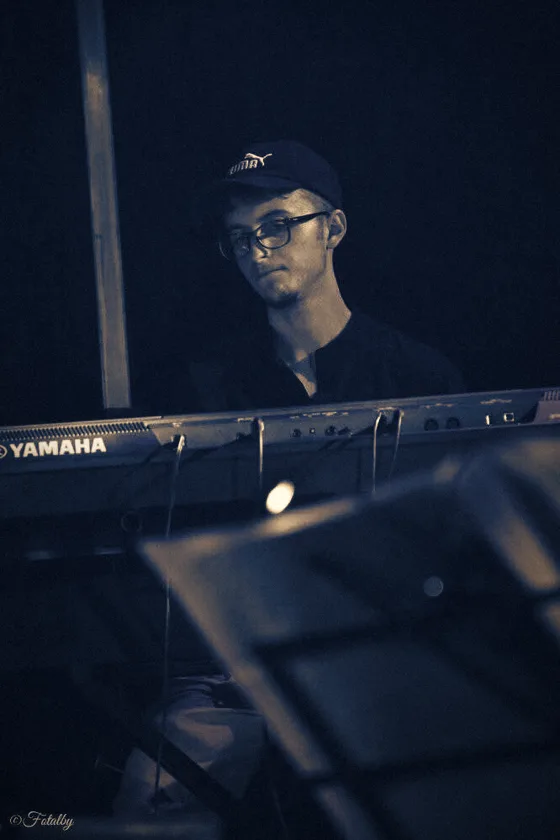
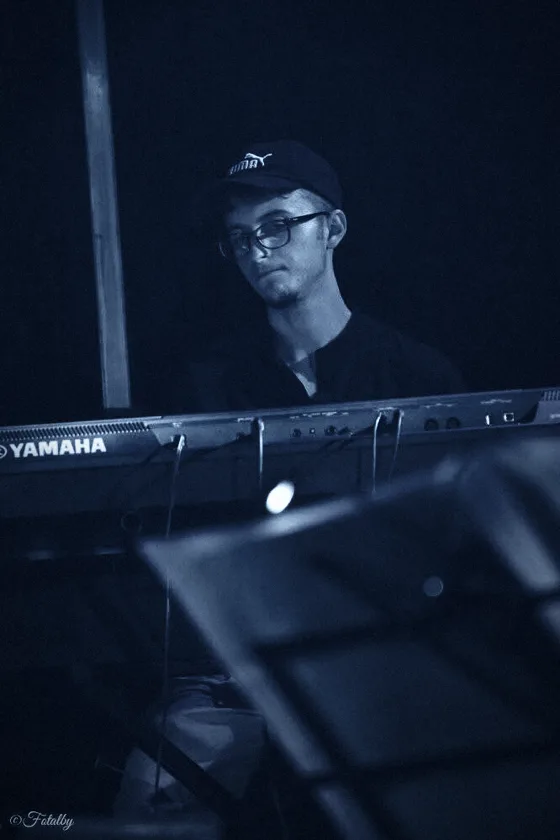
Colore di richiamo azzurro ghiaccio, foto principale con filtro coordinato
Claude-Session: https://claude.ai/code/session_01TQULKgEiuJuH3AcfBSXb7F

diff --git a/assets/style.css b/assets/style.css
@@ -8,7 +8,7 @@
   --bg:#0A1930;--bg-2:#0C1F3A;--surface:#112847;--surface-2:#163257;
   --line:rgba(244,241,234,.10);--line-2:rgba(244,241,234,.18);
   --text:#F4F1EA;--text-2:#CDD3DC;--text-3:#9EA9BA;
-  --gold:#D4B07A;--gold-2:#E4C99C;--gold-line:rgba(212,176,122,.38);--gold-wash:rgba(212,176,122,.08);
+  --gold:#8CC8FF;--gold-2:#B8DCFF;--gold-line:rgba(140,200,255,.38);--gold-wash:rgba(140,200,255,.08);
   --shadow:0 30px 60px -30px rgba(2,8,20,.85);
   --r-sm:10px;--r:16px;--ease:cubic-bezier(.16,1,.3,1);
   --z-nav:50;--z-overlay:90;--z-modal:100;
@@ -68,7 +68,7 @@ section{position:relative;scroll-margin-top:64px}
 .hero{position:relative;min-height:100dvh;max-height:1000px;display:grid;align-items:end;overflow:hidden;isolation:isolate}
 .hero-bg{position:absolute;top:-6%;bottom:-6%;right:0;left:40%;z-index:-2;background:url(img/hero.webp) center 22%/cover no-repeat;will-change:transform;animation:heroIn 2.2s var(--ease) both;-webkit-mask-image:linear-gradient(90deg,transparent 0%,#000 32%);mask-image:linear-gradient(90deg,transparent 0%,#000 32%)}
 @keyframes heroIn{from{transform:scale(1.12);filter:brightness(.4)}to{transform:scale(1.04);filter:none}}
-.hero::before{content:"";position:absolute;inset:0;z-index:-1;background:radial-gradient(700px 500px at 72% 30%,rgba(212,176,122,.10),transparent 70%),linear-gradient(180deg,rgba(10,25,48,0) 70%,var(--bg) 100%)}
+.hero::before{content:"";position:absolute;inset:0;z-index:-1;background:radial-gradient(700px 500px at 72% 30%,rgba(140,200,255,.10),transparent 70%),linear-gradient(180deg,rgba(10,25,48,0) 70%,var(--bg) 100%)}
 .credit{position:absolute;right:clamp(20px,5vw,48px);top:96px;font-size:11px;letter-spacing:.08em;color:var(--text-3);opacity:.8}
 .hero-inner{width:100%;max-width:1200px;margin:0 auto;padding:0 clamp(20px,5vw,48px) clamp(56px,8vh,96px)}
 .hero .label{display:flex;align-items:center;gap:12px}
@@ -139,7 +139,7 @@ a.chip:hover{border-color:var(--gold);color:var(--text);background:var(--gold-wa
 .skills p{color:var(--text-2);font-size:15px}
 .skills>div{padding-top:20px;border-top:1px solid var(--gold-line)}
 .panel{position:relative;background:var(--surface);border:1px solid var(--line);border-radius:var(--r);padding:32px;box-shadow:var(--shadow);overflow:hidden}
-.panel::before{content:"";position:absolute;inset:0;background:radial-gradient(420px circle at var(--mx,80%) var(--my,0%),rgba(212,176,122,.12),transparent 50%);pointer-events:none}
+.panel::before{content:"";position:absolute;inset:0;background:radial-gradient(420px circle at var(--mx,80%) var(--my,0%),rgba(140,200,255,.12),transparent 50%);pointer-events:none}
 .panel h3{font-size:20px;margin-bottom:8px}
 .step{display:grid;grid-template-columns:40px 1fr;gap:12px;padding:20px 0;border-top:1px solid var(--line)}
 .step:first-of-type{border-top:0}
@@ -160,12 +160,12 @@ a.chip:hover{border-color:var(--gold);color:var(--text);background:var(--gold-wa
 .platform:hover .go{color:var(--gold);transform:translate(3px,-3px)}
 
 /* ---------- LB Sounds ---------- */
-.lbs{background:radial-gradient(900px 560px at 18% 58%,rgba(212,176,122,.15),transparent 62%),radial-gradient(700px 400px at 100% 0%,rgba(212,176,122,.07),transparent 60%),var(--bg);overflow:hidden}
+.lbs{background:radial-gradient(900px 560px at 18% 58%,rgba(140,200,255,.15),transparent 62%),radial-gradient(700px 400px at 100% 0%,rgba(140,200,255,.07),transparent 60%),var(--bg);overflow:hidden}
 .lbs-word{position:absolute;left:50%;bottom:-.18em;transform:translateX(-50%);font-family:'Sora';font-weight:800;font-size:clamp(80px,17vw,250px);letter-spacing:-.06em;line-height:1;white-space:nowrap;color:transparent;-webkit-text-stroke:1px rgba(244,241,234,.07);pointer-events:none;user-select:none}
 .product{display:grid;grid-template-columns:minmax(260px,460px) minmax(0,1fr);gap:clamp(40px,7vw,96px);align-items:center;margin-top:56px}
 .cover-wrap{position:relative;margin-right:26%}
 .vinyl{position:absolute;top:7%;right:-30%;width:86%;aspect-ratio:1;border-radius:50%;z-index:0;background:repeating-radial-gradient(circle,#202027 0 1.5px,#2d2d36 1.5px 3px);box-shadow:var(--shadow);transition:right .9s var(--ease);animation:spin 9s linear infinite}
-.vinyl{border:1px solid rgba(212,176,122,.45);box-shadow:0 30px 60px -20px rgba(0,0,0,.9),0 0 0 6px rgba(10,25,48,.6)}
+.vinyl{border:1px solid rgba(140,200,255,.45);box-shadow:0 30px 60px -20px rgba(0,0,0,.9),0 0 0 6px rgba(10,25,48,.6)}
 .vinyl::before{content:"";position:absolute;inset:0;border-radius:50%;background:conic-gradient(from 30deg,transparent 0 12%,rgba(244,241,234,.16) 18%,transparent 26% 62%,rgba(244,241,234,.12) 68%,transparent 76%)}
 .vinyl::after{content:"";position:absolute;inset:36%;border-radius:50%;background:radial-gradient(circle,var(--bg) 0 7%,var(--gold) 8%)}
 @keyframes spin{to{transform:rotate(360deg)}}
@@ -229,7 +229,7 @@ form{display:grid;gap:18px}
 .field label{display:block;font-size:13px;font-weight:600;color:var(--text-2);margin-bottom:8px}
 input,textarea{width:100%;background:var(--bg);border:1px solid var(--line-2);border-radius:var(--r-sm);padding:14px 16px;color:var(--text);font:15px 'Manrope';transition:border-color .25s,box-shadow .25s}
 input::placeholder,textarea::placeholder{color:#7F8BA0}
-input:focus,textarea:focus{outline:none;border-color:var(--gold);box-shadow:0 0 0 3px rgba(212,176,122,.2)}
+input:focus,textarea:focus{outline:none;border-color:var(--gold);box-shadow:0 0 0 3px rgba(140,200,255,.2)}
 textarea{resize:vertical;min-height:130px}
 .err{display:none;font-size:13px;color:#F2A38A;margin-top:6px}
 .field.invalid input,.field.invalid textarea{border-color:#F2A38A}
@@ -329,7 +329,7 @@ footer a:hover{color:var(--text)}
 h2.in .wi{transform:none}
 
 /* hero: riflesso di luce calda che respira sopra la foto */
-.hero::after{content:"";position:absolute;z-index:-1;width:60vmax;height:60vmax;right:-14vmax;top:-18vmax;border-radius:50%;background:radial-gradient(circle,rgba(212,176,122,.22),transparent 62%);mix-blend-mode:screen;pointer-events:none;animation:leak 14s ease-in-out infinite alternate}
+.hero::after{content:"";position:absolute;z-index:-1;width:60vmax;height:60vmax;right:-14vmax;top:-18vmax;border-radius:50%;background:radial-gradient(circle,rgba(140,200,255,.22),transparent 62%);mix-blend-mode:screen;pointer-events:none;animation:leak 14s ease-in-out infinite alternate}
 @keyframes leak{to{transform:translate(-8vmax,10vmax) scale(1.15);opacity:.6}}
 .hero-inner{will-change:transform,opacity}
 
@@ -344,7 +344,7 @@ h2.in .wi{transform:none}
 /* bordi che si illuminano sotto il cursore */
 .platform{position:relative}
 .platform::after,.panel::after{content:"";position:absolute;inset:-1px;border-radius:inherit;padding:1px;pointer-events:none;opacity:0;transition:opacity .35s;
-  background:radial-gradient(260px circle at var(--mx,50%) var(--my,50%),rgba(212,176,122,.85),transparent 60%);
+  background:radial-gradient(260px circle at var(--mx,50%) var(--my,50%),rgba(140,200,255,.85),transparent 60%);
   -webkit-mask:linear-gradient(#000 0 0) content-box,linear-gradient(#000 0 0);-webkit-mask-composite:xor;mask-composite:exclude}
 .platform:hover::after,.panel:hover::after{opacity:1}
 
@@ -355,11 +355,11 @@ h2.in .wi{transform:none}
 
 /* video: pulsante play personalizzato */
 .vwrap{position:relative}
-.vplay{position:absolute;left:50%;top:50%;width:76px;height:76px;margin:-38px 0 0 -38px;border-radius:999px;border:0;cursor:pointer;background:var(--gold);color:var(--bg);display:grid;place-items:center;box-shadow:0 0 0 0 rgba(212,176,122,.5);animation:pulse 2.6s ease-out infinite;transition:transform .5s var(--ease),opacity .3s}
+.vplay{position:absolute;left:50%;top:50%;width:76px;height:76px;margin:-38px 0 0 -38px;border-radius:999px;border:0;cursor:pointer;background:var(--gold);color:var(--bg);display:grid;place-items:center;box-shadow:0 0 0 0 rgba(140,200,255,.5);animation:pulse 2.6s ease-out infinite;transition:transform .5s var(--ease),opacity .3s}
 .vplay .ic{width:26px;height:26px;margin-left:4px}
 .vplay:hover{transform:scale(1.08)}
 .vplay.hide{opacity:0;pointer-events:none;transform:scale(.8)}
-@keyframes pulse{0%{box-shadow:0 0 0 0 rgba(212,176,122,.5)}100%{box-shadow:0 0 0 22px rgba(212,176,122,0)}}
+@keyframes pulse{0%{box-shadow:0 0 0 0 rgba(140,200,255,.5)}100%{box-shadow:0 0 0 22px rgba(140,200,255,0)}}
 @media (max-width:640px){.marquee{padding:20px 0}.vplay{width:64px;height:64px;margin:-32px 0 0 -32px}}
 @media (prefers-reduced-motion:reduce){.wi{transform:none!important}}
 
@@ -368,7 +368,7 @@ h2.in .wi{transform:none}
 .bio-head{display:flex;align-items:center;gap:clamp(20px,3vw,36px);margin-bottom:36px}
 .bio-head h2{margin-bottom:12px}
 .bio-head .bio-quote{margin:0;max-width:36ch}
-.avatar{position:relative;flex-shrink:0;width:clamp(96px,11vw,140px);aspect-ratio:1;border-radius:28px;overflow:hidden;box-shadow:0 20px 40px -20px rgba(2,8,20,.9),0 0 0 1px var(--gold-line),0 0 0 6px var(--bg),0 0 0 7px rgba(212,176,122,.22);rotate:-4deg;transition:rotate .7s var(--ease),scale .7s var(--ease)}
+.avatar{position:relative;flex-shrink:0;width:clamp(96px,11vw,140px);aspect-ratio:1;border-radius:28px;overflow:hidden;box-shadow:0 20px 40px -20px rgba(2,8,20,.9),0 0 0 1px var(--gold-line),0 0 0 6px var(--bg),0 0 0 7px rgba(140,200,255,.22);rotate:-4deg;transition:rotate .7s var(--ease),scale .7s var(--ease)}
 .avatar:hover{rotate:0deg;scale:1.04}
 .avatar img{width:100%;height:100%;object-fit:cover;object-position:center 28%}
 .bio-body{columns:2;column-gap:56px}
